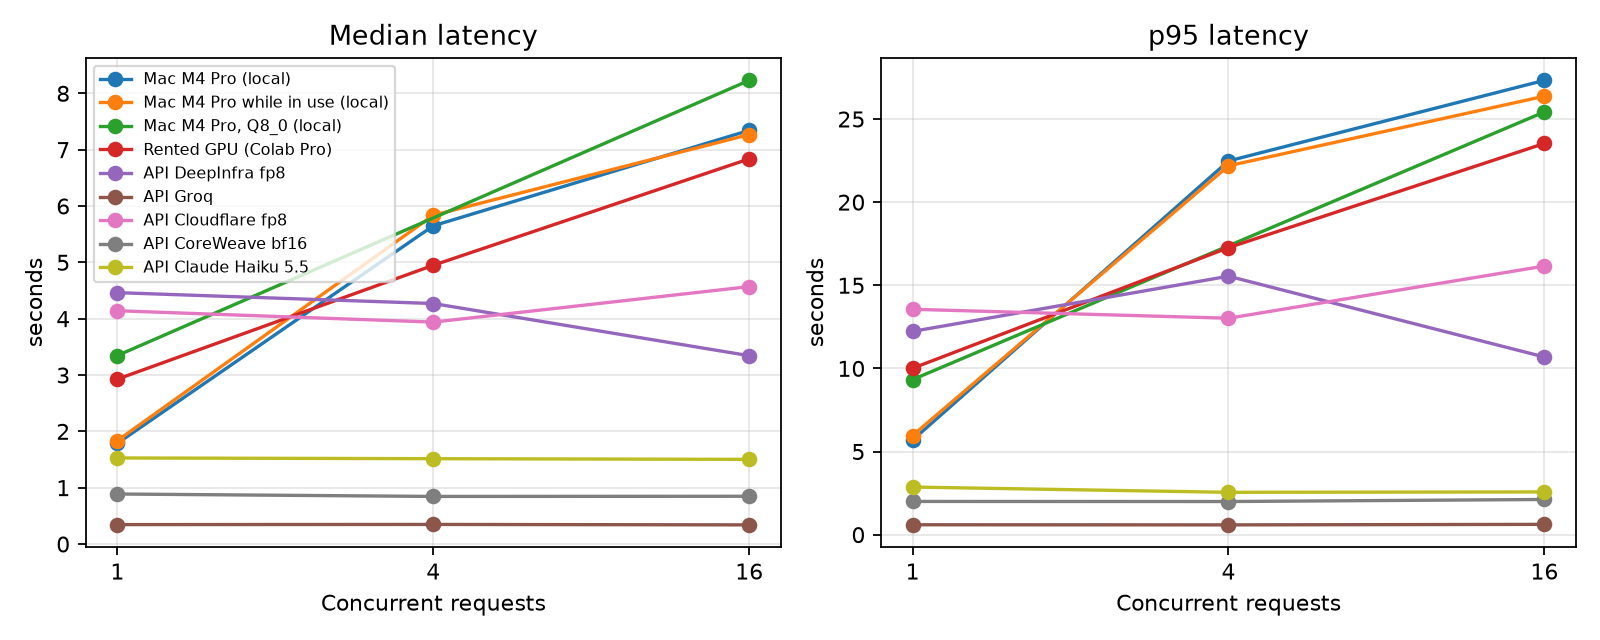
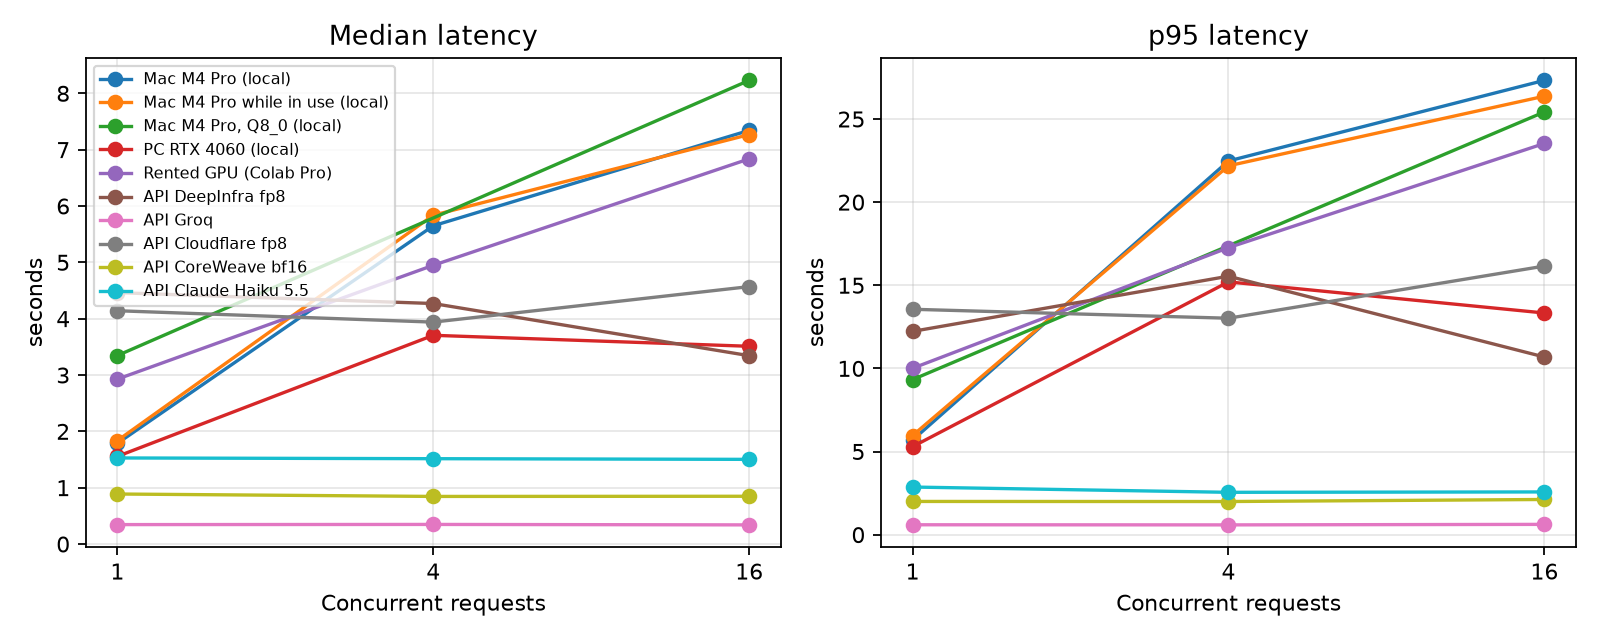
Final report with the PC condition; prompt-cache finding documented

diff --git a/report/build_report.py b/report/build_report.py
@@ -311,6 +311,9 @@ p("Step 6, main runs (24 to 26.10.2026). Each condition receives the 200 main th
 f_raw = fig(FIG / "fig_raw_jsonl.png",
             "Head of a raw run file (runs/mac_m4pro/*.jsonl): the meta line with the server configuration, then "
             "one JSON line per request with timing, tokens, status and the model's answer. Own screenshot.")
+f_pc = fig(FIG / "pc" / "pc_server_offloaded.png",
+           "llama-server starting on the PC (own screenshot, 23.10.2026 22:55): all 33 layers offloaded to the RTX 4060, "
+           "16 slots of 1,024 tokens (n_ctx 16,384), flash attention enabled, 2,048 MiB KV cache on the GPU, build b11840.", width_cm=16)
 p("Step 7, processing. bench/summarize.py rebuilds results/requests_all.csv (one row per request, model text "
   "removed), results/summary_by_level.csv (one row per condition, task, set, concurrency and repeat) and "
   "results/summary_by_condition.csv (median over repeats). bench/cost_model.py turns throughput and prices.json "
@@ -434,7 +437,7 @@ table([["Date", "Who", "What was done", "What went wrong", "What was changed"]] 
 h("T3. Artefacts developed", 2)
 table([
     ["Artefact", "What it does in the study", "Public link", "Evidence presented"],
-    ["bench/run.py", "Sends prompts, measures, writes raw data", LINKS["github"] + "/blob/main/bench/run.py", f"Figure {f_pilot} (console), Figure {f_raw} (raw file)"],
+    ["bench/run.py", "Sends prompts, measures, writes raw data", LINKS["github"] + "/blob/main/bench/run.py", f"Figure {f_pilot} (console), Figure {f_raw} (raw file), Figure {f_pc} (PC server)"],
     ["bench/make_prompts.py", "Builds the fixed prompt sets and their card with checksums", LINKS["github"] + "/blob/main/bench/make_prompts.py", "data/prompts/prompt_sets_card.json"],
     ["bench/summarize.py, bench/cost_model.py, bench/make_figures.py", "Processing, cost model, plots", LINKS["github"] + "/tree/main/bench", "results/*.csv, figures/*.png"],
     ["bench/serve_mac.sh, bench/windows/*.ps1, bench/cloud/colab_benchmark.ipynb", "Identical server configuration on three kinds of machine", LINKS["github"] + "/tree/main/bench", f"Figure {f_server}"],

diff --git a/docs/research_log.md b/docs/research_log.md
@@ -33,3 +33,5 @@ One row per working session, trial batch or model run. Times are Astana time (UT
 | 23.10.2026 06:20 | Aitbek | Final processing for the report without the PC: summarize.py, energy.py, cost_model.py, make_figures.py, build_report.py; archives for the Drive mirror rebuilt; repository pushed. | - | - |
 | 23.10.2026 22:55 to 23:49 | Aitbek (Claude Code agent on the PC) | PC condition pc_rtx4060 (Windows 11, RTX 4060 8 GB, Ryzen 9 7900X). Run started 22:55:44, finished 23:49:22 (power log stopped 23:49:55). llama.cpp b11840 (commit 36e36e63a, llama-b11840-bin-win-cuda-12.4-x64 + cudart 12.4), NVIDIA driver 610.88. Model sha256 matched (7b064f58...557c). Server log: "offloaded 33/33 layers to GPU", 7.4 of 8.2 GB VRAM used, no out-of-memory, so serve_pc.ps1 was run unchanged (no -ctk/-ctv q8_0). Full protocol (run_pc.ps1): pilot throughput 6 levels, pilot quality, main throughput 9 levels, main quality 2 repeats; 2,330 requests, 0 errors. Main throughput: 48 tok/s at c=1, 80 at c=4, 269 to 282 at c=16; GSM8K accuracy 0.83 and 0.84 (pilot 0.867). Before the run, Telegram, WhatsApp, ChatGPT, FACEIT, Teams, Edge, OneDrive and Settings were closed; Chrome (one GitHub tab, minimised) and iCUE (fan control) stayed open. | (1) nvidia-smi reports CUDA 13.3, not 12.x (newer driver; it runs the CUDA 12.4 build). (2) Driver 610.88 under WDDM returns [N/A] for power.draw in --query-gpu, so power_pc.ps1 logged no watts. (3) At the default log level this llama.cpp build does not print the "offloaded" line; the first server start (22:53) was stopped and restarted with LLAMA_ARG_LOG_VERBOSITY=4 (environment variable only, same arguments). The verbose log reached 238 MB. (4) The pilot and main c=4 results differ (147 vs 80 tok/s), the same pilot-vs-main gap seen on the Mac. | A second power logger was started at 22:57:08 next to window 2: it reads "Power Samples" from nvidia-smi -q -d POWER once per second into runs/pc_rtx4060/power_samples_*.csv (same column names, parsed by energy.py), mean about 100 to 110 W under load. There is no power data for 22:55:45 to 22:57:08 (start of pilot c=1). runs/pc_server.log keeps only the server start-up part (215 lines up to "all slots are idle"); the full log is not committed (over the GitHub 100 MB limit). The PowerShell UTF-16 output of power_*.csv and runs/main_pc_console.log was re-saved as UTF-8. Screenshot pc_run_done.png shows the run console log re-printed in a new window, because the summarize table had scrolled the "done:" lines out of window 3. summarize.py on Windows wrote run_file paths in results/requests_all.csv with backslashes; they were turned back into forward slashes so that only the 2,330 new PC rows change. |
 | 23.10.2026 | Aitbek (Claude Code agent on the PC) | Ran bench/energy.py and bench/cost_model.py main with the PC data. PC GPU power by level: about 111 W at concurrency 1 and 4, 103.4 W mean at concurrency 16 (main). PC cost per 1,000 requests (dedicated): 1.358 / 0.137 / 0.0147 USD at 1k / 10k / 100k requests per day; capacity 202,255 requests per day. Break-even against api_deepinfra (0.00546 USD): none below capacity for the dedicated PC; 100,000 per day for the shared developer machine; 79,433 per day for pc_rtx4060_budget shared. Only pc_rtx4060 and pc_rtx4060_budget rows changed in results. | prices.json had load_watts_measured = null for pc_rtx4060 and pc_rtx4060_budget, and there is no load_watts_assumed, so cost_model.py would have used 0 W under load. | load_watts_measured filled in by the rule already stated in prices.json and used for the Mac (mean GPU power over the concurrency-16 main levels): 103.4 W + 80 W = 183.4 W (pc_rtx4060), 103.4 W + 60 W = 163.4 W (budget). The source text notes that the GPU power comes from the nvidia-smi "Power Samples" log. Figures and the report were not rebuilt. |
+| 24.10.2026 00:05 | Aitbek | Pulled the PC results, recomputed summarize, energy, cost_model and figures on the Mac: identical numbers to the PC agent's run (PC 2,330/2,330 OK, capacity 202,255 requests/day, accuracy 0.835, 105 to 112 W GPU). | The PC server log says "prompt cache is enabled ... use --cache-ram 0 to disable"; the Mac log also shows "making room for prompt cache entry". So --no-cache-prompt did not disable the RAM prompt cache in any local build. Checked the effect: median TTFT of repeat 1 equals repeats 2 and 3 on all three machines, decode speed unchanged; no measurable effect, documented in Segment 4 T3. | Report text corrected; serve scripts left as run (changing them now would make the PC and Mac runs incomparable). |
+| 24.10.2026 00:10 | Aitbek | Final report built with all conditions; Drive mirror refreshed; repository pushed. | - | - |
